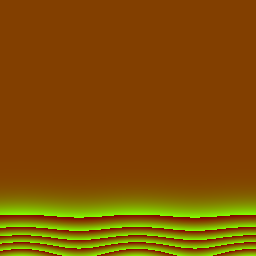
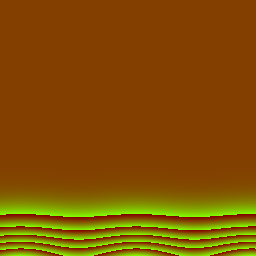
test(example): hold the synthetic DEM's heights at pixel centres
MapLibre Native now draws a DEM pixel at its centre, (i + 0.5)/256 of the
tile, as maplibre-gl-js does. The fixture's tiles held each pixel's height
at its corner, so native drew the ridge half a pixel (52 m) south-east of
the formula, and GroundView's check against the engine's own terrain cast
failed on iOS.

The generator now samples the formula at pixel centres, and the elevation
tests expect alpsHeight × exaggeration on every platform instead of a
half-pixel shift on web. No library change; nothing runs per frame.

diff --git a/examples/integration_test/terrain_test.dart b/examples/integration_test/terrain_test.dart
@@ -692,30 +692,10 @@ void runTests() {
 const double _kmPerDegree = 6371.0088 * pi / 180;
 
 /// The height in meters that the map draws at [point] of the synthetic
-/// ridge, with [exaggeration].
-///
-/// The fixture's tiles place DEM pixel i at i/256 of the tile, as MapLibre
-/// Native draws it. maplibre-gl-js draws pixel i at its centre, (i + 0.5)/256,
-/// so the same tiles draw each height half a DEM pixel (52 m) further
-/// south-east there.
-double _drawnHeight(Geographic point, double exaggeration) {
-  var lat = point.lat;
-  var lng = point.lon;
-  if (kIsWeb) {
-    const halfPixel = 0.5 / 256;
-    const tiles = 1 << alpsDemZoom;
-    final x = (lng + 180) / 360 * tiles;
-    final y = (1 - log(tan(pi / 4 + lat * pi / 360)) / pi) / 2 * tiles;
-    (:lat, :lng) = tilePointLatLng(
-      alpsDemZoom,
-      0,
-      0,
-      x - halfPixel,
-      y - halfPixel,
-    );
-  }
-  return alpsHeight(lat, lng) * exaggeration;
-}
+/// ridge, with [exaggeration]. The fixture's tiles hold each DEM pixel's
+/// height at the pixel's centre, where every platform draws it.
+double _drawnHeight(Geographic point, double exaggeration) =>
+    alpsHeight(point.lat, point.lon) * exaggeration;
 
 /// Points of the synthetic ridge ahead of the Alps camera, which looks north.
 const Map<String, Geographic> _groundPoints = {

diff --git a/examples/tool/alps_dem.dart b/examples/tool/alps_dem.dart
@@ -22,9 +22,9 @@ void main() {
   }
 }
 
-/// The RGB rows of a Terrarium tile. MapLibre places pixel `i` at `i / 256`
-/// of the tile and reads whole meters, so each pixel holds the rounded
-/// height at that point.
+/// The RGB rows of a Terrarium tile. MapLibre (Native and GL JS) places
+/// pixel `i` at its centre, `(i + 0.5) / 256` of the tile, and reads whole
+/// meters, so each pixel holds the rounded height at that point.
 Uint8List _terrarium(int tileX, int tileY) {
   final rgb = Uint8List(_size * _size * 3);
   for (var row = 0; row < _size; row++) {
@@ -33,8 +33,8 @@ Uint8List _terrarium(int tileX, int tileY) {
         alpsDemZoom,
         tileX,
         tileY,
-        column / _size,
-        row / _size,
+        (column + 0.5) / _size,
+        (row + 0.5) / _size,
       );
       final value = alpsHeight(lat, lng).round() + 32768;
       final i = (row * _size + column) * 3;

diff --git a/.agents/decisions.md b/.agents/decisions.md
@@ -719,11 +719,10 @@ Each entry: the decision, then why.
   `assets/terrain/alps/`; a loopback server serves them on native, and the
   app's assets on web. Tests can assert drawn heights against
   `alpsHeight` × exaggeration.
-- **Terrain elevation tests place the fixture's DEM pixels per platform.**
-  The tiles put pixel i at i/256 of the tile, where MapLibre Native draws
-  it; gl-js draws it at the pixel's centre, (i + 0.5)/256, so its expected
-  height is `alpsHeight` half a DEM pixel north-west. Both then agree with
-  their oracle within 0.5 m.
+- **The fixture's tiles hold each DEM pixel's height at the pixel's
+  centre**, (i + 0.5)/256 of the tile, where MapLibre Native and gl-js both
+  draw it, so every platform's expected height is `alpsHeight` ×
+  exaggeration, within 0.5 m.
 - **Native terrain tests cast their own rays to find the ground on
   screen** (`GroundView`, `shared/alps_fixture.dart`), because native
   projections are at sea level (see Known gaps). It rebuilds the eye from
